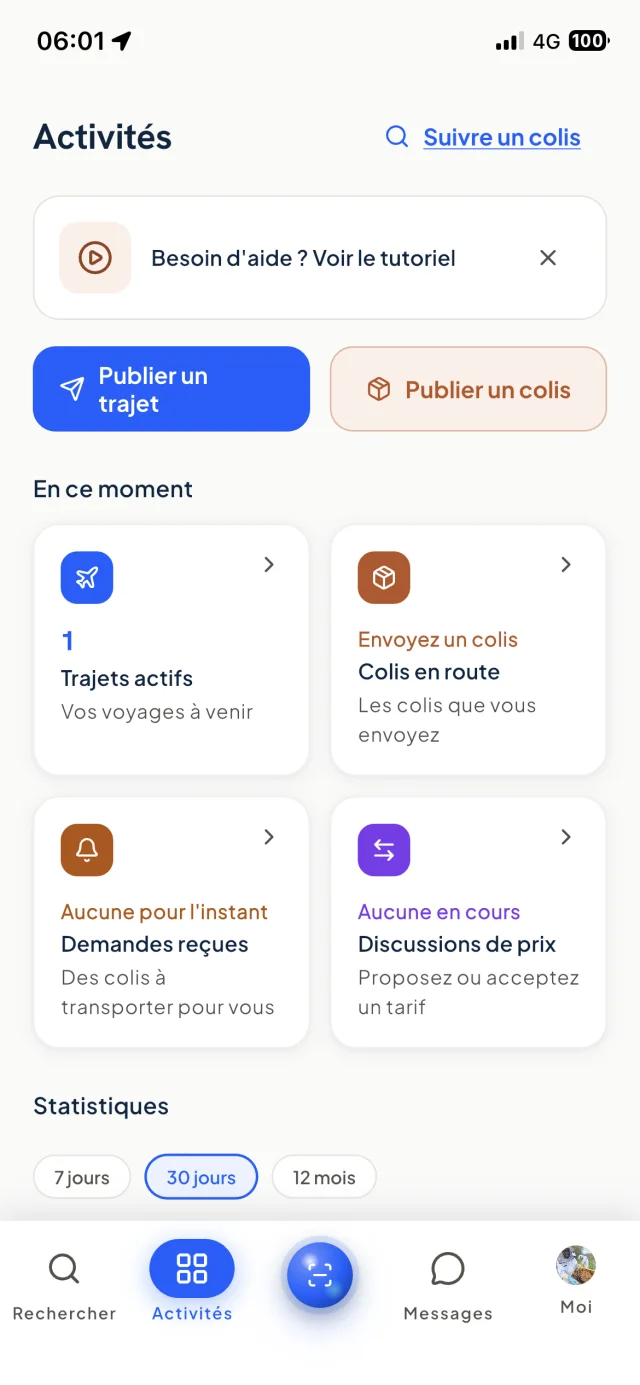
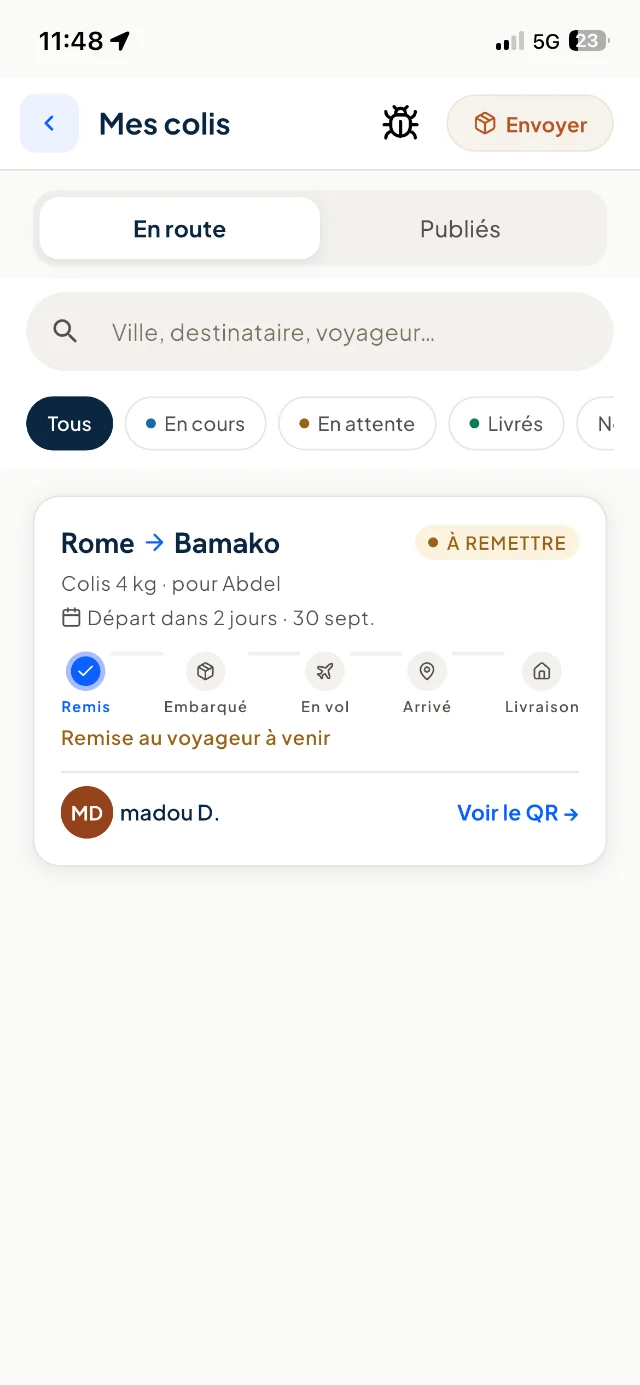
feat(visuels): vraies captures d'app à la place des aperçus manquants (#11)
Les étapes 03 et 04 du parcours de suivi affichaient une maquette « Aperçu
à venir » sur fond navy, en production depuis la mise en ligne. Elles
reçoivent deux captures réelles : un trajet Bamako vers Abidjan terminé, et
la fiche de suivi d'un colis livré portant la mention « Livraison
confirmée ».

L'étape 01 « Dépôt » montrait l'écran Activités, alors que son texte
alternatif annonçait un écran de dépôt avec QR code. C'était le même
fichier que celui du bloc de téléchargement, avec deux descriptions
contradictoires pour une seule image. L'écran Activités prend son propre
fichier, app-activites.webp, et l'étape 01 reçoit l'écran Mes colis d'un
envoi à remettre au voyageur.

Les trois textes alternatifs concernés décrivent désormais ce que l'image
montre réellement, dans les deux langues.

Réserve : la capture de l'étape 03 est approximative. Le texte de l'étape
parle du scan à l'atterrissage qui fait passer la fiche de suivi en
« arrivé » ; l'image montre un trajet terminé, faute de capture de cet
écran précis.

diff --git a/app/components/sections/DownloadCta.vue b/app/components/sections/DownloadCta.vue
@@ -26,7 +26,7 @@ const { t } = useI18n()
         <div class="hidden lg:col-span-5 lg:block">
           <div class="w-[260px] rotate-[3deg] lg:ml-auto lg:mr-6">
             <UiPhoneFrame
-              src="/screenshots/app-depot.webp"
+              src="/screenshots/app-activites.webp"
               :alt="t('home.download.screenshotAlt')"
             />
           </div>
